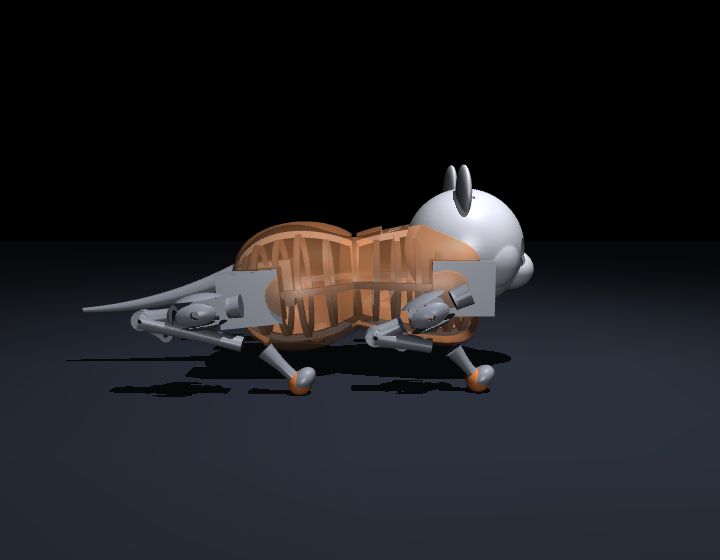
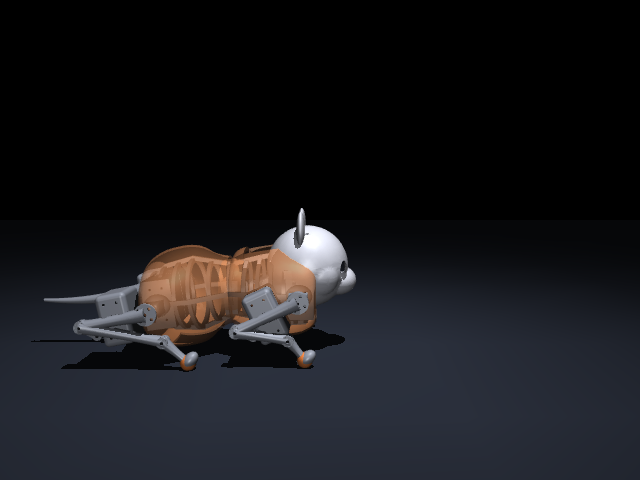
docs: add key-numbers data + pose gallery to the README
- Key numbers table (mass, cost, DOF, actuator, four-bar/remote-hip, scale range)
  and the MuJoCo gait benchmark (stand/walk/trot), all model-derived.
- Gallery: side / loaf / sit stills re-rendered from the CURRENT design
  (slim-shoulder / remote-axle-hip) for consistency with the front view.

Changed region(s): [[0.0625, 0.2812, 0.75, 0.7812], [0.75, 0.5625, 1.0, 0.6562]]

diff --git a/README.md b/README.md
@@ -41,6 +41,43 @@ backdrivable + sub-1 kg** at once.
   behavior → expression) behind a HAL, with a Jetson Orin Nano backend (stub-runnable on a
   dev box) and a serial-servo wiring pin-map.
 
+## Key numbers
+
+All derived from the model — regenerate with `python -m analysis.platform_report`.
+
+| Platform | |
+|---|---|
+| Mass | **1451 g** (plastic 360 + components 1091) — target 0.8–1.6 kg |
+| BOM cost | $711 / **$838** / $965 (lo / mid / hi) |
+| DOF | **14 actuated** — 2 motors/leg (hip+knee) + coupled ankle + rigid abduction; 6 expressive (waist, head pan/pitch/tilt, ears, tail) |
+| Actuator | Feetech STS3215 ×14 — 2.94 N·m stall, 60 g, TTL serial, **backdrivable** |
+| Compute | Jetson Orin Nano Super (8 GB), 67 TOPS, 7–25 W |
+| Four-bar knee | 128° ROM, 41–140° transmission angle (singularity-free) |
+| Remote-axle hip | **−93 %** hip lateral inertia (motors relocated to the torso) |
+| Envelope | 347 × 189 × 192 mm |
+| Viable scale range | **k ≈ 0.7–1.25** (body 126–225 mm) — the fixed actuator sets the window |
+
+Gait benchmark (MuJoCo):
+
+| Gait | Upright | Travel | Peak torque (% of stall) | Torso roll p-p |
+|---|:--:|--:|--:|--:|
+| stand | ✓ | — | 12 % | 0.0° |
+| walk | ✓ | 11 cm | 44 % | 2.5° |
+| trot | ✓ | 48 cm | 35 % | 3.1° |
+
+> Hardware-measured metrics (acoustic dB, backlash, backdrive torque, battery runtime,
+> sim-to-real gap) are **TBD** — pending the physical build (see
+> [`docs/build_mvp.md`](docs/build_mvp.md)).
+
+## Gallery
+
+<p align="center">
+  <img src="docs/img/side.png" alt="Side view — digitigrade stance" width="31%" />
+  <img src="docs/img/loaf.png" alt="Loaf pose" width="31%" />
+  <img src="docs/img/sit.png" alt="Sit pose" width="31%" />
+</p>
+<p align="center"><em>Left → right: digitigrade stance (side), loaf, sit — current model, MuJoCo.</em></p>
+
 ## Repository layout
 
 | Path | What |
